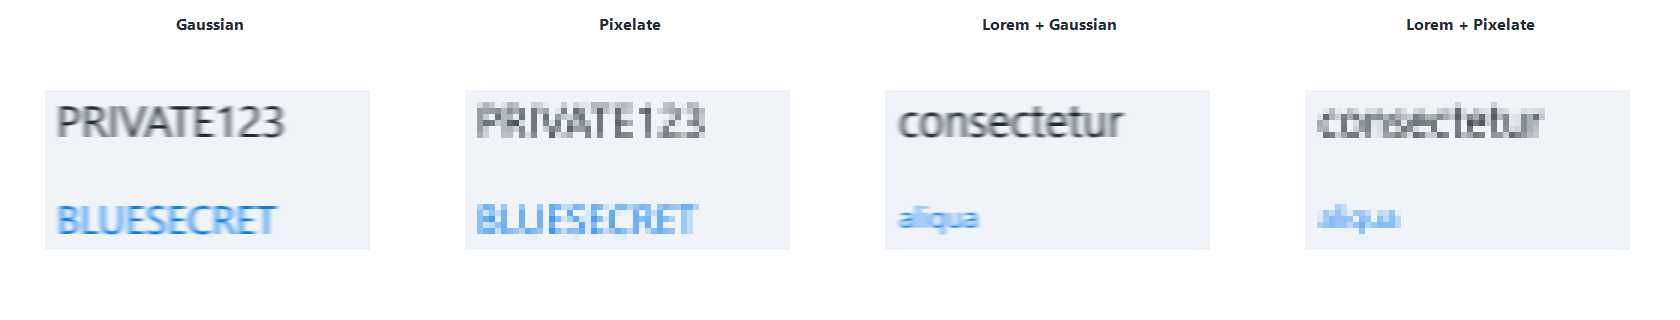
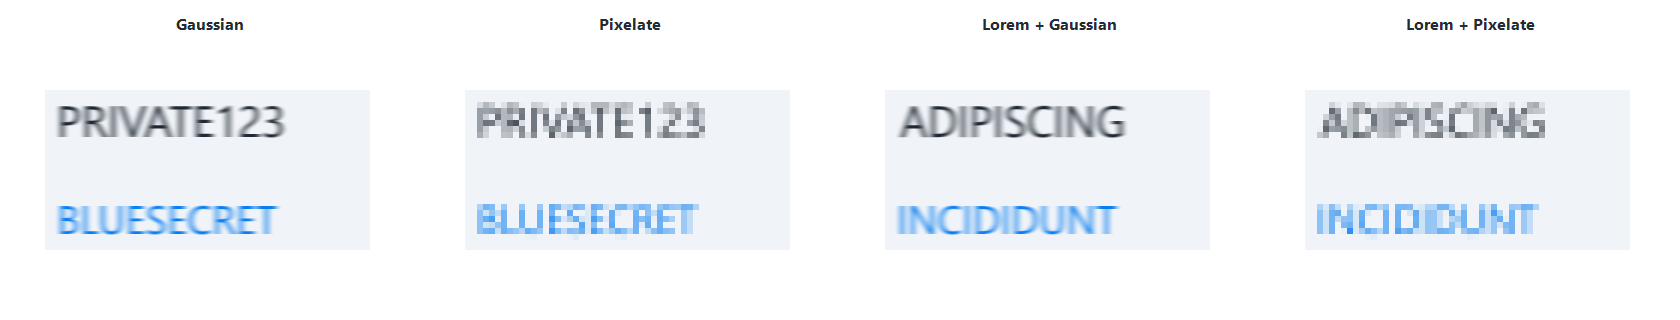
Match Lorem substitutions to original text length and width

diff --git a/src/redaction.cpp b/src/redaction.cpp
@@ -4,6 +4,7 @@
 #include <algorithm>
 #include <array>
 #include <cmath>
+#include <cwctype>
 #include <unordered_map>
 #include "redaction.h"
 
@@ -68,6 +69,101 @@ struct Replacement {
     ARGB background, color;
     std::wstring text;
 };
+std::wstring loremText(const std::wstring& original, uint32_t& seed) {
+    static constexpr const wchar_t* words[] = {L"a",
+                                               L"et",
+                                               L"ex",
+                                               L"eu",
+                                               L"id",
+                                               L"in",
+                                               L"ut",
+                                               L"sit",
+                                               L"sed",
+                                               L"non",
+                                               L"est",
+                                               L"amet",
+                                               L"elit",
+                                               L"enim",
+                                               L"Lorem",
+                                               L"ipsum",
+                                               L"dolor",
+                                               L"magna",
+                                               L"aliqua",
+                                               L"tempor",
+                                               L"labore",
+                                               L"dolore",
+                                               L"eiusmod",
+                                               L"aliquam",
+                                               L"voluptas",
+                                               L"officiis",
+                                               L"voluptate",
+                                               L"consequat",
+                                               L"adipiscing",
+                                               L"incididunt",
+                                               L"consectetur",
+                                               L"exercitation",
+                                               L"reprehenderit",
+                                               L"necessitatibus"};
+    bool upper = false, lower = false;
+    for (wchar_t c : original) {
+        upper |= std::iswupper(c) != 0;
+        lower |= std::iswlower(c) != 0;
+    }
+    const size_t length = std::clamp(original.size(), size_t(1), size_t(512));
+    std::wstring text;
+    for (int attempt = 0; attempt < 8; ++attempt) {
+        text.clear();
+        seed = seed * 1664525u + 1013904223u;
+        unsigned matches = 0;
+        if (length > 1)
+            for (const auto* word : words)
+                if (wcslen(word) == length && _wcsicmp(word, original.c_str()) != 0)
+                    ++matches;
+        if (matches) {
+            unsigned choice = (seed >> 16) % matches;
+            for (const auto* word : words)
+                if (wcslen(word) == length && _wcsicmp(word, original.c_str()) != 0) {
+                    if (choice-- == 0) {
+                        text = word;
+                        break;
+                    }
+                }
+        }
+        while (text.size() < length) {
+            if (!text.empty())
+                text += L' ';
+            size_t remaining = length - text.size();
+            seed = seed * 1664525u + 1013904223u;
+            if (remaining == 1) {
+                // Tiny OCR words still need a different, equally short glyph.
+                constexpr wchar_t initials[] = L"aeilmnstu";
+                text += initials[seed % (std::size(initials) - 1)];
+                break;
+            }
+            unsigned start = seed % std::size(words);
+            for (unsigned offset = 0; offset < std::size(words); ++offset) {
+                const wchar_t* word = words[(start + offset) % std::size(words)];
+                size_t size = wcslen(word);
+                // Avoid a trailing blank: any remainder must fit a space and
+                // another word. Long originals use complete Lorem phrases.
+                if (size <= remaining && remaining - size != 1) {
+                    text += word;
+                    break;
+                }
+            }
+        }
+        for (wchar_t& c : text)
+            c = wchar_t(upper && !lower ? std::towupper(c) : std::towlower(c));
+        if (upper && lower && !original.empty() && std::iswupper(original.front()))
+            text.front() = wchar_t(std::towupper(text.front()));
+        if (_wcsicmp(text.c_str(), original.c_str()) != 0)
+            return text;
+    }
+    text.front() = std::towlower(text.front()) == L'l' ? L'i' : L'l';
+    if (upper && !lower)
+        text.front() = wchar_t(std::towupper(text.front()));
+    return text;
+}
 Replacement replacement(Raster& pixels, const OcrWord& word, const Rect& context, uint32_t& seed) {
     Rect ink = wordRegion(word.bounds, 0), ring = wordRegion(word.bounds, 4);
     Histogram background, foreground;
@@ -95,15 +191,7 @@ Replacement replacement(Raster& pixels, const OcrWord& word, const Rect& context
     ARGB fg = dominant(foreground, colorDistance(bg, 0xff000000) > colorDistance(bg, 0xffffffff)
                                        ? 0xff000000
                                        : 0xffffffff);
-    static constexpr const wchar_t* lorem[] = {
-        L"Lorem",  L"ipsum", L"dolor",  L"sit",     L"amet",   L"consectetur", L"adipiscing",
-        L"elit",   L"sed",   L"do",     L"eiusmod", L"tempor", L"incididunt",  L"ut",
-        L"labore", L"et",    L"dolore", L"magna",   L"aliqua"};
-    seed = seed * 1664525u + 1013904223u;
-    unsigned index = seed % std::size(lorem);
-    if (_wcsicmp(lorem[index], word.text.c_str()) == 0)
-        index = (index + 1) % std::size(lorem);
-    return {word.bounds, bg, fg, lorem[index]};
+    return {word.bounds, bg, fg, loremText(word.text, seed)};
 }
 bool pixelate(Bitmap& image, int block) {
     Raster pixels(image, ImageLockModeRead | ImageLockModeWrite);
@@ -246,7 +334,9 @@ RedactionResult redact(Gdiplus::Bitmap& source, RECT area, RedactionMode mode, f
             if (ink.Width <= 0 || ink.Height <= 0)
                 continue;
             REAL sy = word.bounds.Height / ink.Height;
-            REAL sx = std::min(sy, word.bounds.Width / ink.Width);
+            // Match the original visual span as well as its character count.
+            // Short substitutions must not leave most of a long word blank.
+            REAL sx = word.bounds.Width / ink.Width;
             Matrix transform(sx, 0, 0, sy, word.bounds.X - ink.X * sx, word.bounds.Y - ink.Y * sy);
             glyphs.Transform(&transform);
             SolidBrush foreground(Color(word.color));

diff --git a/docs/development.md b/docs/development.md
@@ -71,7 +71,7 @@ Redaction rectangles are editable items with immutable, shared raster caches. Ca
 
 Gaussian uses Windows [GDI+ Blur](https://learn.microsoft.com/en-us/windows/win32/api/gdipluseffects/nl-gdipluseffects-blur) and [BlurParams](https://learn.microsoft.com/en-us/windows/win32/api/gdipluseffects/ns-gdipluseffects-blurparams). Pixelation averages each selected-region block, then writes that color uniformly; rendering uses nearest-neighbor upsampling. Both strengths are in original-image pixels. Patches are opaque and drawn with source-copy compositing so original text cannot show through a blurred edge. The source screenshot remains unchanged; only the processed patch is composed into exports.
 
-Lorem modes consider **any intersection** with an OCR word, including a selection that misses its center or splits a glyph. An expanded context raster samples a 4-pixel ring for the dominant background and contrasting glyph pixels for foreground color, grouped into RGB buckets to limit antialiasing noise. Original word regions are filled within the selected patch before replacement glyphs are drawn. Lorem tokens use a stable per-item seed, never copy the original token, and match the OCR ink height with width limited by the word box. This approximates font size/color; font family, complex backgrounds, and missed or inaccurate OCR boxes remain heuristic limits. Undetected text receives the chosen blur or pixelation without substitution. This feature is not a guarantee of irreversible removal of every sensitive pattern.
+Lorem modes consider **any intersection** with an OCR word, including a selection that misses its center or splits a glyph. An expanded context raster samples a 4-pixel ring for the dominant background and contrasting glyph pixels for foreground color, grouped into RGB buckets to limit antialiasing noise. Original word regions are filled within the selected patch before replacement glyphs are drawn. Lorem substitutions use a stable per-item seed and preserve the source character count (up to 512 characters) and capitalization while always changing its content. They prefer equally long Lorem words, use phrases for longer originals, and match both the OCR ink height and width. This approximates font size/color; font family, complex backgrounds, and missed or inaccurate OCR boxes remain heuristic limits. Undetected text receives the chosen blur or pixelation without substitution. This feature is not a guarantee of irreversible removal of every sensitive pattern.
 
 Only selected pixels are written: context may be read beyond the selection for estimation, but the returned patch is exactly the chosen rectangle. Original words intersecting any redaction are excluded from OCR highlights and original-text copying. Lorem controls require completed OCR; if a Lorem effect cannot be prepared, an opaque cover is exported instead of silently revealing or merely blurring the original.
 

diff --git a/CHANGELOG.md b/CHANGELOG.md
@@ -1,5 +1,10 @@
 # Changelog
 
+## 1.18.1 — Redaction preview
+
+- Match Lorem substitution to the original word's character count, capitalization, and visible width. Prefer equally long Lorem words and use phrases for longer originals.
+- Preserve estimated glyph height, colors, and exact selection clipping.
+
 ## 1.18.0 — Redaction preview (local experiment)
 
 - Add **Redact (B)** with Gaussian blur, pixelation, Lorem + Gaussian, and Lorem + Pixelate.
